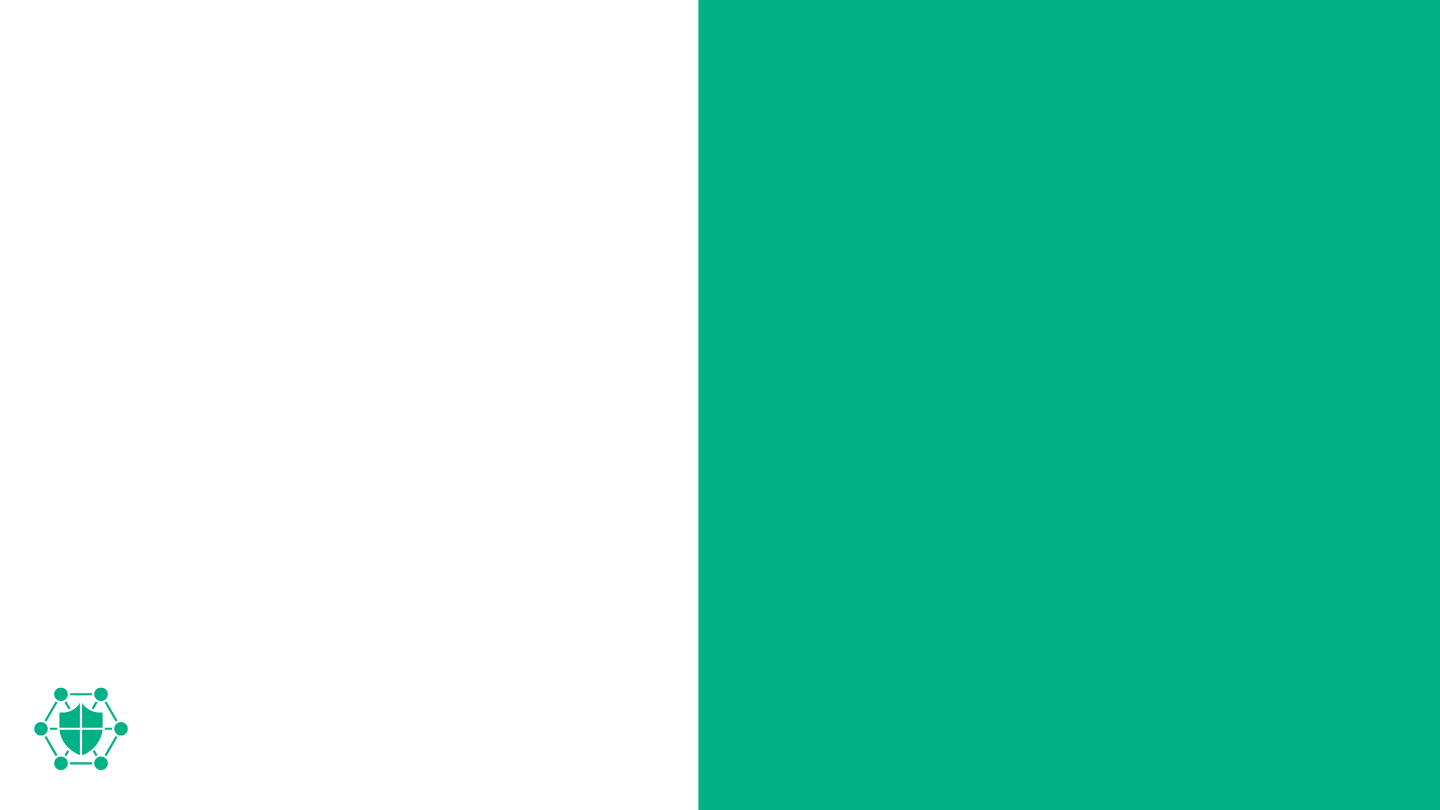
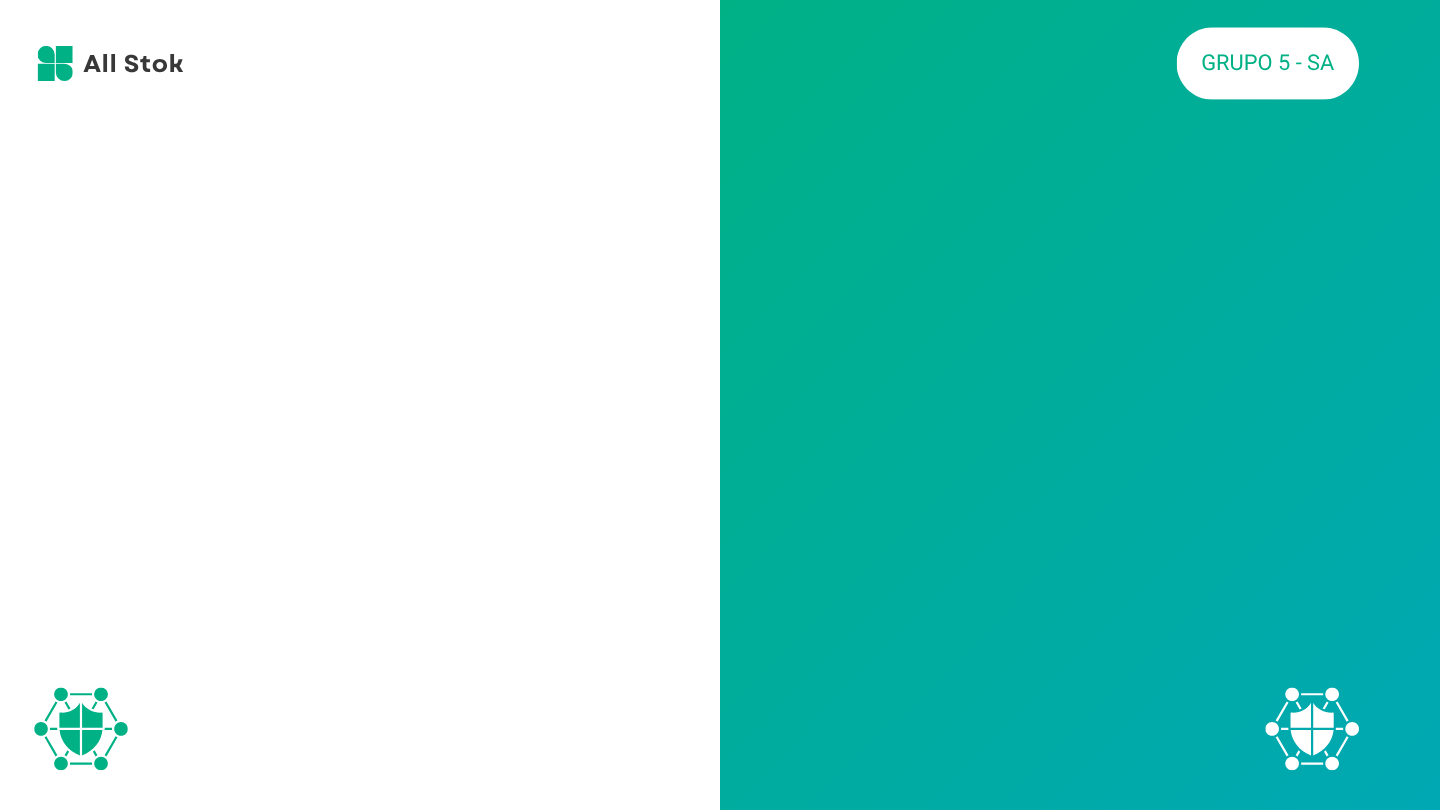
Adicionando o Leitor de Estoque

Changed region(s): [[0.4688, 0.0, 1.0, 1.0], [0.8125, 0.0309, 0.9688, 0.1235], [0.0, 0.0617, 0.125, 0.1235]]

diff --git a/ProjetoSA/Form1.cs b/ProjetoSA/Form1.cs
@@ -10,6 +10,7 @@ public partial class Formprinciapl : Form {
     public Panel PainelRegistro;
     public Panel PainelLogin;
     public Panel Temp;
+    public Panel VerPlanilha;
     
     public  Formprinciapl() {
             InitializeComponent();
@@ -44,7 +45,7 @@ public partial class Formprinciapl : Form {
         
         Label TextoOlaAmigo = new Label();
         TextoOlaAmigo.Text = "Olá, Amigo!";
-        TextoOlaAmigo.Location = new Point(790, 200);
+        TextoOlaAmigo.Location = new Point(810, 200);
         TextoOlaAmigo.AutoSize = true;
         TextoOlaAmigo.Font = new Font("Arial",20, FontStyle.Bold);
         TextoOlaAmigo.ForeColor = Color.White;
@@ -53,7 +54,7 @@ public partial class Formprinciapl : Form {
 
         Label InsiraDetalhes = new Label();
         InsiraDetalhes.Text = "Insira alguns Detalhes e comece sua jornada";
-        InsiraDetalhes.Location = new Point(724,230);
+        InsiraDetalhes.Location = new Point(735,230);
         InsiraDetalhes.AutoSize = true;
         InsiraDetalhes.Font = new Font("Arial", 10, FontStyle.Bold);
         InsiraDetalhes.ForeColor = Color.White;
@@ -62,7 +63,7 @@ public partial class Formprinciapl : Form {
             
         Label Conosco = new Label();
         Conosco.Text = "conosco.";
-        Conosco.Location = new Point(835, 245);
+        Conosco.Location = new Point(855, 245);
         Conosco.AutoSize = true;
         Conosco.Font = new Font("Arial", 10, FontStyle.Bold);
         Conosco.ForeColor = Color.White;
@@ -72,7 +73,7 @@ public partial class Formprinciapl : Form {
         Button BotaoRegistrar = new Button();
         BotaoRegistrar.Text = "REGISTRAR";
         BotaoRegistrar.AutoSize = true;
-        BotaoRegistrar.Location = new Point(780, 270);
+        BotaoRegistrar.Location = new Point(795, 270);
         BotaoRegistrar.Font = new Font("Arial",20,FontStyle.Bold);
         BotaoRegistrar.ForeColor = Color.White;
         BotaoRegistrar.BackColor = Color.FromArgb(0, 171, 155);
@@ -112,6 +113,7 @@ public partial class Formprinciapl : Form {
         CampoSenha.Font = new Font("Arial", 20);
         CampoSenha.PlaceholderText = "Senha";
         CampoSenha.TextAlign = HorizontalAlignment.Center;
+        CampoSenha.UseSystemPasswordChar = true;
         PainelLogin.Controls.Add(CampoSenha);
             
         Button BotaoEsqueceuSenha = new Button();
@@ -202,7 +204,7 @@ public partial class Formprinciapl : Form {
 
         Label labelTituloRegistro = new Label();
         labelTituloRegistro.Text = "Crie sua Conta";
-        labelTituloRegistro.Location = new Point(350, 100);
+        labelTituloRegistro.Location = new Point(410, 100);
         labelTituloRegistro.Font = new Font("Arial", 28, FontStyle.Bold);
         labelTituloRegistro.AutoSize = true;
         labelTituloRegistro.BackColor = Color.Transparent;
@@ -210,7 +212,7 @@ public partial class Formprinciapl : Form {
         PainelRegistro.Controls.Add(labelTituloRegistro); 
 
         TextBox campoNovoUsuario = new TextBox();
-        campoNovoUsuario.Location = new Point(350, 180);
+        campoNovoUsuario.Location = new Point(410, 180);
         campoNovoUsuario.Size = new Size(300, 30);
         campoNovoUsuario.Font = new Font("Arial", 20);
         campoNovoUsuario.PlaceholderText = "Digite seu usuário";
@@ -218,7 +220,7 @@ public partial class Formprinciapl : Form {
         PainelRegistro.Controls.Add(campoNovoUsuario);
 
         TextBox campoNovaSenha = new TextBox();
-        campoNovaSenha.Location = new Point(350, 240);
+        campoNovaSenha.Location = new Point(410, 240);
         campoNovaSenha.Size = new Size(300, 30);
         campoNovaSenha.Font = new Font("Arial", 20);
         campoNovaSenha.PlaceholderText = "Digite sua senha";
@@ -226,7 +228,7 @@ public partial class Formprinciapl : Form {
         PainelRegistro.Controls.Add(campoNovaSenha); 
 
         TextBox campoConfirmarSenha = new TextBox();
-        campoConfirmarSenha.Location = new Point(350, 300);
+        campoConfirmarSenha.Location = new Point(410, 300);
         campoConfirmarSenha.Size = new Size(300, 30);
         campoConfirmarSenha.Font = new Font("Arial", 20);
         campoConfirmarSenha.PlaceholderText = "Confirme sua senha";
@@ -235,7 +237,7 @@ public partial class Formprinciapl : Form {
         
         Button botaoConfirmar = new Button();
         botaoConfirmar.Text = "CONFIRMAR REGISTRO";
-        botaoConfirmar.Location = new Point(350, 370);
+        botaoConfirmar.Location = new Point(410, 370);
         botaoConfirmar.Size = new Size(300, 50);
         botaoConfirmar.Font = new Font("Arial", 16, FontStyle.Bold);
         botaoConfirmar.BackColor = Color.White;
@@ -354,5 +356,32 @@ public partial class Formprinciapl : Form {
         };
         Temp.Controls.Add(botaoVoltar);
 
+    }
+
+    public void Ver_Planilha() {
+        VerPlanilha = new Panel();
+        VerPlanilha.Size = this.ClientSize;
+        VerPlanilha.Location = new Point(0, 0);
+        VerPlanilha.BackgroundImage = Image.FromFile(@"..\..\..\Recursos\FundoTelaPadrao.png");
+        VerPlanilha.BackgroundImageLayout = ImageLayout.Stretch;
+        VerPlanilha.Visible = false;
+
+        
+        
+        Button botaoVoltar = new Button();
+        botaoVoltar.Text = "Voltar";
+        botaoVoltar.Location = new Point(20, 20); 
+        botaoVoltar.Font = new Font("Arial", 12, FontStyle.Bold);
+        botaoVoltar.AutoSize = true;
+        botaoVoltar.FlatStyle = FlatStyle.Flat;
+        botaoVoltar.FlatAppearance.BorderSize = 0;
+        botaoVoltar.BackColor = Color.White;
+        botaoVoltar.ForeColor = Color.FromArgb(0, 171, 155);
+        botaoVoltar.Click += (sender, e) => {
+            VerPlanilha.Visible = false;
+            PainelLogin.Visible = true;
+        };
+        VerPlanilha.Controls.Add(botaoVoltar);
+        
     }
 }

diff --git a/ProjetoSA/MostrarPlanilha.cs b/ProjetoSA/MostrarPlanilha.cs
@@ -1,0 +1,6 @@
+namespace ProjetoSA;
+
+public static class MostrarPlanilha
+{
+    
+}

diff --git a/ProjetoSA/Leitor De Planilha.cs b/ProjetoSA/Leitor De Planilha.cs
@@ -1,0 +1,5 @@
+namespace ProjetoSA;
+
+public class Leitor_De_Planilha {
+    
+}
